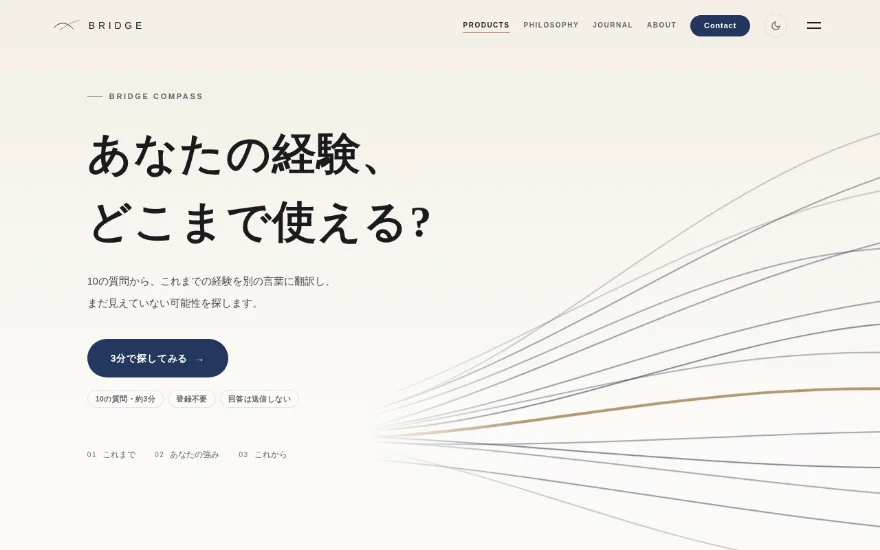
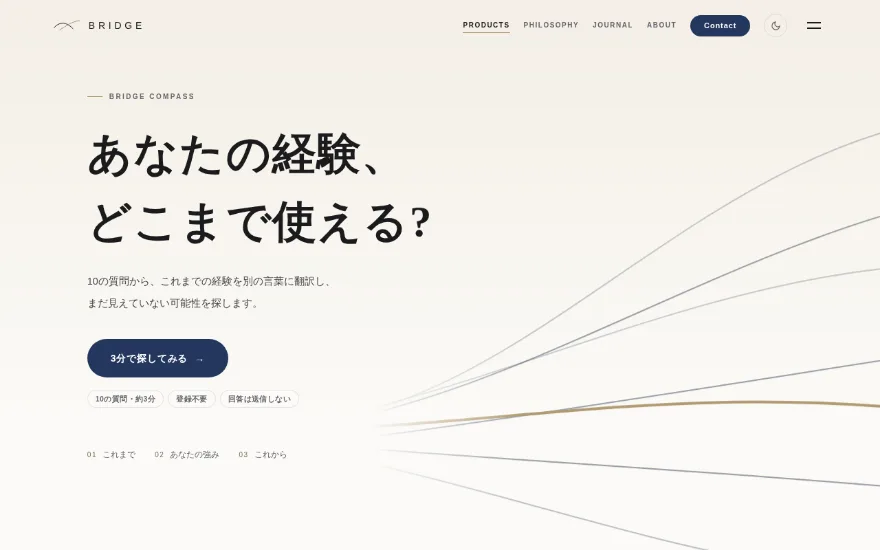
fix(compass): デザイナーの照合を反映し、出荷判定を記録(3コミットで1出荷)
- 砂色を選択の瞬間に限定(言いかえの左線・textareaフォーカス・引用符を非砂に)
- 見出しラベルを既存の .eyebrow に統一、タグを枠線にしてダークと等価に
- hover は (hover:hover) の環境だけ(タップ後に枠が残らない)
- Where to next を 棚卸し/Stories/Products に(同じ顔の分岐を解消)
- 導入の線を14→7本・高さ48%、締めの幅を660pxに
- 自由記述では「次へ」を固定しない(キーボードとの重なり対策)
- 翻訳中の線が画面にいる間に描き終わるよう短縮
- meta description から「医療職としての」を外す(確定コピーに揃える)
- shiplog に判定行(shipped・公開は社長判断3点の後)

Claude-Session: https://claude.ai/code/session_017mHMn7uwf6a3hfVd3hYwAZ

diff --git a/compass/app/styles.css b/compass/app/styles.css
@@ -13,8 +13,6 @@
 .cp .en{font-family:var(--en)}
 
 .cp-main{min-height:100svh;position:relative;overflow:hidden}
-.cp-kicker{font:700 11px/1 var(--en);letter-spacing:.24em;text-transform:uppercase;color:var(--ink-3);display:inline-flex;align-items:center;gap:10px}
-.cp-kicker::before{content:'';width:22px;height:1px;background:var(--dawn)}
 [tabindex="-1"]:focus{outline:none}
 
 /* ---- 画面の出入り(遷移) ---- */
@@ -42,7 +40,7 @@
 /* ---- 導入 ---- */
 .cp-intro{min-height:100svh;display:flex;align-items:center;position:relative;background:linear-gradient(180deg,var(--hero-sky-1) 0%,var(--bg) 70%)}
 .cp-intro[hidden]{display:none}
-.cp-intro-lines{position:absolute;left:0;right:0;bottom:0;height:62%;pointer-events:none;opacity:.9;
+.cp-intro-lines{position:absolute;left:0;right:0;bottom:0;height:48%;pointer-events:none;opacity:.9;
   -webkit-mask-image:linear-gradient(180deg,transparent 0%,var(--ink) 35%);mask-image:linear-gradient(180deg,transparent 0%,var(--ink) 35%)}
 .cp-intro-lines svg g,.cp-intro-lines svg{animation:cp-drift 18s ease-in-out infinite alternate}
 @keyframes cp-drift{from{transform:translateY(0)}to{transform:translateY(-10px)}}
@@ -65,7 +63,6 @@
 .cp-q{max-width:var(--cp-w);margin:0 auto;padding:88px 20px calc(120px + env(safe-area-inset-bottom));min-height:100svh}
 .cp-head{display:grid;grid-template-columns:44px 1fr;grid-template-rows:auto auto;column-gap:8px;row-gap:10px;align-items:center;margin-bottom:clamp(28px,5vh,44px)}
 .cp-back{width:44px;height:44px;display:grid;place-items:center;border-radius:50%;margin-left:-10px;color:var(--ink-2);transition:background .2s}
-.cp-back:hover{background:var(--bg-2)}
 .cp-back svg{width:20px;height:20px;fill:none;stroke:currentColor;stroke-width:1.8;stroke-linecap:round;stroke-linejoin:round}
 .cp-chapter{display:flex;flex-direction:column;gap:6px}
 .cp-chapter .en{font:600 10px/1 var(--en);letter-spacing:.2em;color:var(--ink-3)}
@@ -78,7 +75,6 @@
 .cp-opts{display:grid;gap:10px;margin-top:clamp(22px,4vh,32px)}
 .cp-opt{display:flex;align-items:center;gap:14px;width:100%;min-height:56px;padding:14px 18px;text-align:left;border:1px solid var(--line);border-radius:14px;background:var(--card);font-size:14.5px;line-height:1.6;color:var(--ink);
   transition:border-color .25s,background .25s,transform .18s var(--ease)}
-.cp-opt:hover{border-color:var(--ink-4)}
 .cp-opt:active{transform:scale(.985)}
 .cp-opt:focus-visible{outline:2px solid var(--blue);outline-offset:2px}
 .cp-opt.on{border-color:var(--dawn);background:color-mix(in srgb,var(--dawn) 9%,var(--card))}
@@ -94,20 +90,22 @@
   background:linear-gradient(180deg,transparent,var(--bg) 38%)}
 .cp-next{width:100%;max-width:calc(var(--cp-w) - 40px);justify-content:center;min-height:54px}
 .cp-next[disabled]{opacity:.35;cursor:default;transform:none;box-shadow:none}
+.cp-q.is-text{padding-bottom:48px}
+.cp-q.is-text .cp-next-bar{position:static;background:none;padding:24px 0 0} /* 入力中にキーボードと固定バーが重ならないよう、自由記述では固定しない */
 .cp-skip{min-height:44px;padding:0 16px;font-size:13px;color:var(--ink-2);text-decoration:underline;text-underline-offset:4px;text-decoration-color:var(--ink-4)}
 
 /* 自由記述 */
 .cp-text{margin-top:clamp(22px,4vh,32px)}
 .cp-text textarea{width:100%;min-height:180px;padding:16px 18px;border:1px solid var(--line);border-radius:14px;background:var(--card);color:var(--ink);font:400 15px/1.9 var(--sans);resize:vertical;transition:border-color .25s}
 .cp-text textarea::placeholder{color:var(--ink-3)}
-.cp-text textarea:focus{outline:none;border-color:var(--dawn)}
+.cp-text textarea:focus{outline:none;border-color:var(--blue)}
 .cp-text-meta{display:flex;justify-content:space-between;gap:16px;margin-top:10px;font-size:11.5px;line-height:1.8;color:var(--ink-3)}
 .cp-count{font-family:var(--en);white-space:nowrap}
 
 /* ---- 翻訳中 ---- */
 .cp-translating{min-height:100svh;display:flex;flex-direction:column;align-items:center;justify-content:center;gap:28px;padding:100px 24px;text-align:center;background:linear-gradient(180deg,var(--hero-sky-1),var(--bg))}
 .cp-conv{width:min(420px,90vw);height:auto;aspect-ratio:4/3}
-.cp-conv path{animation-duration:1.4s}
+.cp-conv path{animation-duration:.9s} /* 画面にいる約1.9秒のうちに描き終える */
 .cp-trans-t{font-family:var(--mincho);font-weight:600;font-size:clamp(18px,4.6vw,22px);line-height:2}
 
 /* ---- 結果 ---- */
@@ -119,11 +117,11 @@
 .cp-r-sec{padding:clamp(36px,6vh,56px) 24px;border-top:1px solid var(--line)}
 .cp-r-sub{font-size:15px;font-weight:700;letter-spacing:.04em;margin-bottom:20px}
 .cp-tags{display:flex;flex-wrap:wrap;gap:8px}
-.cp-tag{display:inline-flex;align-items:center;min-height:36px;padding:6px 16px;border-radius:100px;background:var(--bg-2);font-size:13.5px;font-weight:500;color:var(--ink)}
+.cp-tag{display:inline-flex;align-items:center;min-height:36px;padding:6px 16px;border-radius:100px;border:1px solid var(--line);font-size:13.5px;font-weight:500;color:var(--ink)}
 .cp-tag.sm{min-height:28px;padding:4px 12px;font-size:12px;color:var(--ink-2)}
 .cp-note{margin-top:18px;font-size:13px;line-height:2;color:var(--ink-2)}
 .cp-tr{list-style:none;display:grid;gap:14px}
-.cp-tr li{display:flex;flex-direction:column;gap:2px;padding-left:16px;border-left:2px solid var(--dawn);font-size:13.5px;line-height:1.9;color:var(--ink-2)}
+.cp-tr li{display:flex;flex-direction:column;gap:2px;padding-left:16px;border-left:2px solid var(--line);font-size:13.5px;line-height:1.9;color:var(--ink-2)}
 .cp-tr b{font-weight:700;color:var(--ink);margin:0 2px}
 .cp-tr .to b{font-size:15px}
 
@@ -139,7 +137,6 @@
 .cp-more{margin-top:16px}
 .cp-more summary{list-style:none;display:inline-flex;align-items:center;gap:10px;min-height:44px;padding:0 20px;border:1px solid var(--line);border-radius:100px;font-size:13px;font-weight:700;color:var(--ink);cursor:pointer;transition:border-color .25s}
 .cp-more summary::-webkit-details-marker{display:none}
-.cp-more summary:hover{border-color:var(--ink-3)}
 .cp-more summary:focus-visible{outline:2px solid var(--blue);outline-offset:2px}
 .cp-more summary .ar{font-family:var(--en);transition:transform .3s var(--ease)}
 .cp-more[open] summary .ar{transform:rotate(90deg)}
@@ -149,13 +146,12 @@
 .cp-links .t{font-size:14px;font-weight:700}
 .cp-links .d{grid-column:1;font-size:12px;color:var(--ink-3);line-height:1.8}
 .cp-links .ar{grid-column:2;grid-row:1/3;align-self:center;font-family:var(--en);color:var(--ink-3);transition:transform .3s var(--ease)}
-.cp-links a:hover .ar{transform:translateX(4px);color:var(--ink)}
 
 .cp-quote{position:relative;padding:22px 24px;background:var(--bg-2);border-radius:4px;font-family:var(--mincho);font-size:15.5px;line-height:2.1;color:var(--ink)}
-.cp-quote::before{content:'“';position:absolute;left:10px;top:-6px;font:600 36px/1 var(--mincho);color:var(--dawn)}
+.cp-quote::before{content:'“';position:absolute;left:10px;top:-6px;font:600 36px/1 var(--mincho);color:var(--ink-4)}
 .cp-quote p{overflow-wrap:anywhere}
 
-.cp-r-close{padding:clamp(56px,9vh,88px) 24px;border-top:1px solid var(--line);font-family:var(--mincho);font-size:15.5px;line-height:2.2;color:var(--ink-2)}
+.cp-r-close{max-width:var(--text-max);padding:clamp(56px,9vh,88px) 24px;border-top:1px solid var(--line);font-family:var(--mincho);font-size:15.5px;line-height:2.2;color:var(--ink-2)}
 .cp-r-close p + p{margin-top:14px}
 .cp-r-close .last{margin-top:26px;font-size:clamp(18px,4.8vw,21px);font-weight:600;color:var(--ink)}
 .cp-r-act{padding:0 24px clamp(56px,9vh,80px);display:flex;flex-wrap:wrap;gap:12px}
@@ -166,6 +162,14 @@
 /* トースト */
 .cp-toast{position:fixed;left:50%;bottom:calc(96px + env(safe-area-inset-bottom));z-index:120;transform:translate(-50%,12px);padding:12px 20px;border-radius:100px;background:var(--ink);color:var(--bg);font-size:13px;opacity:0;pointer-events:none;transition:all .35s var(--ease);white-space:nowrap}
 .cp-toast.on{opacity:1;transform:translate(-50%,0)}
+
+/* タップ後に hover の枠が残らないよう、hover はポインタのある環境だけ */
+@media(hover:hover){
+  .cp-opt:hover{border-color:var(--ink-4)}
+  .cp-back:hover{background:var(--bg-2)}
+  .cp-more summary:hover{border-color:var(--ink-3)}
+  .cp-links a:hover .ar{transform:translateX(4px);color:var(--ink)}
+}
 
 @media(min-width:760px){
   .cp-q{padding-top:120px}

diff --git a/compass/app/app.js b/compass/app/app.js
@@ -60,7 +60,7 @@
       p += '<path class="ln-n" pathLength="1" style="--d:' + (i * 0.05).toFixed(2) + 's;opacity:' + (0.25 + r() * 0.35).toFixed(2) + '" d="M-10 ' + sy.toFixed(1) + ' C 90 ' + sy.toFixed(1) + ', 140 150, 200 150"/>';
     }
     [60, 150, 240].forEach((ey, i) => {
-      p += '<path class="' + (i === 1 ? 'ln-s' : 'ln-n') + ' ln-out" pathLength="1" style="--d:' + (0.7 + i * 0.12).toFixed(2) + 's" d="M200 150 C 260 150, 300 ' + ey + ', 410 ' + ey + '"/>';
+      p += '<path class="' + (i === 1 ? 'ln-s' : 'ln-n') + ' ln-out" pathLength="1" style="--d:' + (0.5 + i * 0.1).toFixed(2) + 's" d="M200 150 C 260 150, 300 ' + ey + ', 410 ' + ey + '"/>';
     });
     return '<svg viewBox="0 0 400 300" preserveAspectRatio="xMidYMid meet" focusable="false">' + p + '<circle class="ln-dot" cx="200" cy="150" r="3.2"/></svg>';
   }
@@ -135,7 +135,7 @@
         '<div class="cp-next-bar"><button type="button" class="btn primary cp-next" data-act="next">次へ <span aria-hidden="true">→</span></button>' +
         '<button type="button" class="cp-skip" data-act="skip">スキップして次へ</button></div>';
     }
-    return '<section class="cp-screen cp-q" data-step="' + q.id + '">' + head(q.id) +
+    return '<section class="cp-screen cp-q' + (q.type === 'text' ? ' is-text' : '') + '" data-step="' + q.id + '">' + head(q.id) +
       '<h2 class="cp-q-h" tabindex="-1">' + esc(q.text) + '</h2>' +
       (q.hint ? '<p class="cp-q-hint">' + esc(q.hint) + '</p>' : '') + body + '</section>';
   }
@@ -170,7 +170,7 @@
 
     return '<section class="cp-screen cp-result" data-step="result">' +
       '<header class="cp-r-hero">' +
-        '<p class="cp-kicker">YOUR BRIDGE MAP</p>' +
+        '<p class="eyebrow">YOUR BRIDGE MAP</p>' +
         '<h1 class="cp-r-h" tabindex="-1">あなたの経験は、<br>“<span class="em">' + esc(r.headline) + '</span>”<br>につながっています</h1>' +
         '<div class="cp-lines cp-map" aria-hidden="true">' + mapSvg() + '</div>' +
       '</header>' +
@@ -210,10 +210,10 @@
 
       '<aside class="walk cp-walk" aria-labelledby="cpWalk"><div class="walk-inner">' +
         '<p class="eyebrow">Where to next</p>' +
-        '<h2 class="walk-h" id="cpWalk">見えた経験を、言葉として残すなら</h2>' +
+        '<h2 class="walk-h" id="cpWalk">次は、どこへ歩きますか</h2>' +
         '<div class="walk-grid">' +
           '<a class="walk-card" href="../tanaoroshi/index.html"><span class="en">Tanaoroshi</span><span class="t">経験の棚卸し</span><p class="p">18の質問で、職務経歴書のたねをつくります。</p></a>' +
-          '<a class="walk-card" href="../iikae/index.html"><span class="en">Iikae</span><span class="t">現場のことば 言いかえ帳</span><p class="p">現場のことばを、履歴書で通じる言葉に。</p></a>' +
+          '<a class="walk-card" href="../stories/index.html"><span class="en">Stories</span><span class="t">物語を読む</span><p class="p">現場で実際にあったことを、一人称で。</p></a>' +
           '<a class="walk-card" href="../products/index.html"><span class="en">Products</span><span class="t">ほかの道具を見る</span><p class="p">用途から選べる、BRIDGEの道具の一覧です。</p></a>' +
         '</div>' +
         '<p class="walk-note">地図を眺めただけで閉じても、それで十分です。</p>' +
@@ -407,7 +407,7 @@
 
   /* ---- 起動 ---- */
   const introLines = $('.cp-intro-lines');
-  if (introLines) introLines.innerHTML = fanSvg({ n: 14, seed: 5, sand: 8 });
+  if (introLines) introLines.innerHTML = fanSvg({ n: 7, seed: 5, sand: 4 });
   const start = document.getElementById('cpStart');
   start.disabled = false;
   start.addEventListener('click', () => go('profession'));

diff --git a/compass/index.html b/compass/index.html
@@ -4,7 +4,7 @@
 <meta charset="UTF-8">
 <meta name="viewport" content="width=device-width, initial-scale=1.0, viewport-fit=cover">
 <title>BRIDGE Compass — あなたの経験、どこまで使える? / BRIDGE</title>
-<meta name="description" content="10の質問から、医療職としてのこれまでの経験を別の言葉に翻訳し、まだ見えていない可能性を探します。約3分・登録不要。回答は送信せず、この端末の中だけで扱います。">
+<meta name="description" content="10の質問から、これまでの経験を別の言葉に翻訳し、まだ見えていない可能性を探します。約3分・登録不要。回答は送信せず、この端末の中だけで扱います。">
 <meta property="og:title" content="BRIDGE Compass — あなたの経験、どこまで使える?">
 <meta property="og:description" content="10の質問から、これまでの経験を別の言葉に翻訳し、まだ見えていない可能性を探します。約3分・登録不要。">
 <meta property="og:type" content="website">
@@ -29,7 +29,7 @@
   <section class="cp-screen cp-intro" id="cpIntro" data-step="intro" aria-labelledby="cpIntroH">
     <div class="cp-lines cp-intro-lines" aria-hidden="true"></div>
     <div class="cp-intro-inner">
-      <p class="cp-kicker">BRIDGE Compass</p>
+      <p class="eyebrow">BRIDGE Compass</p>
       <h1 class="cp-intro-h" id="cpIntroH" tabindex="-1">あなたの経験、<br>どこまで使える?</h1>
       <p class="cp-intro-sub">10の質問から、これまでの経験を<br class="br-sp">別の言葉に翻訳し、<br>まだ見えていない可能性を探します。</p>
       <div class="cp-intro-act">
